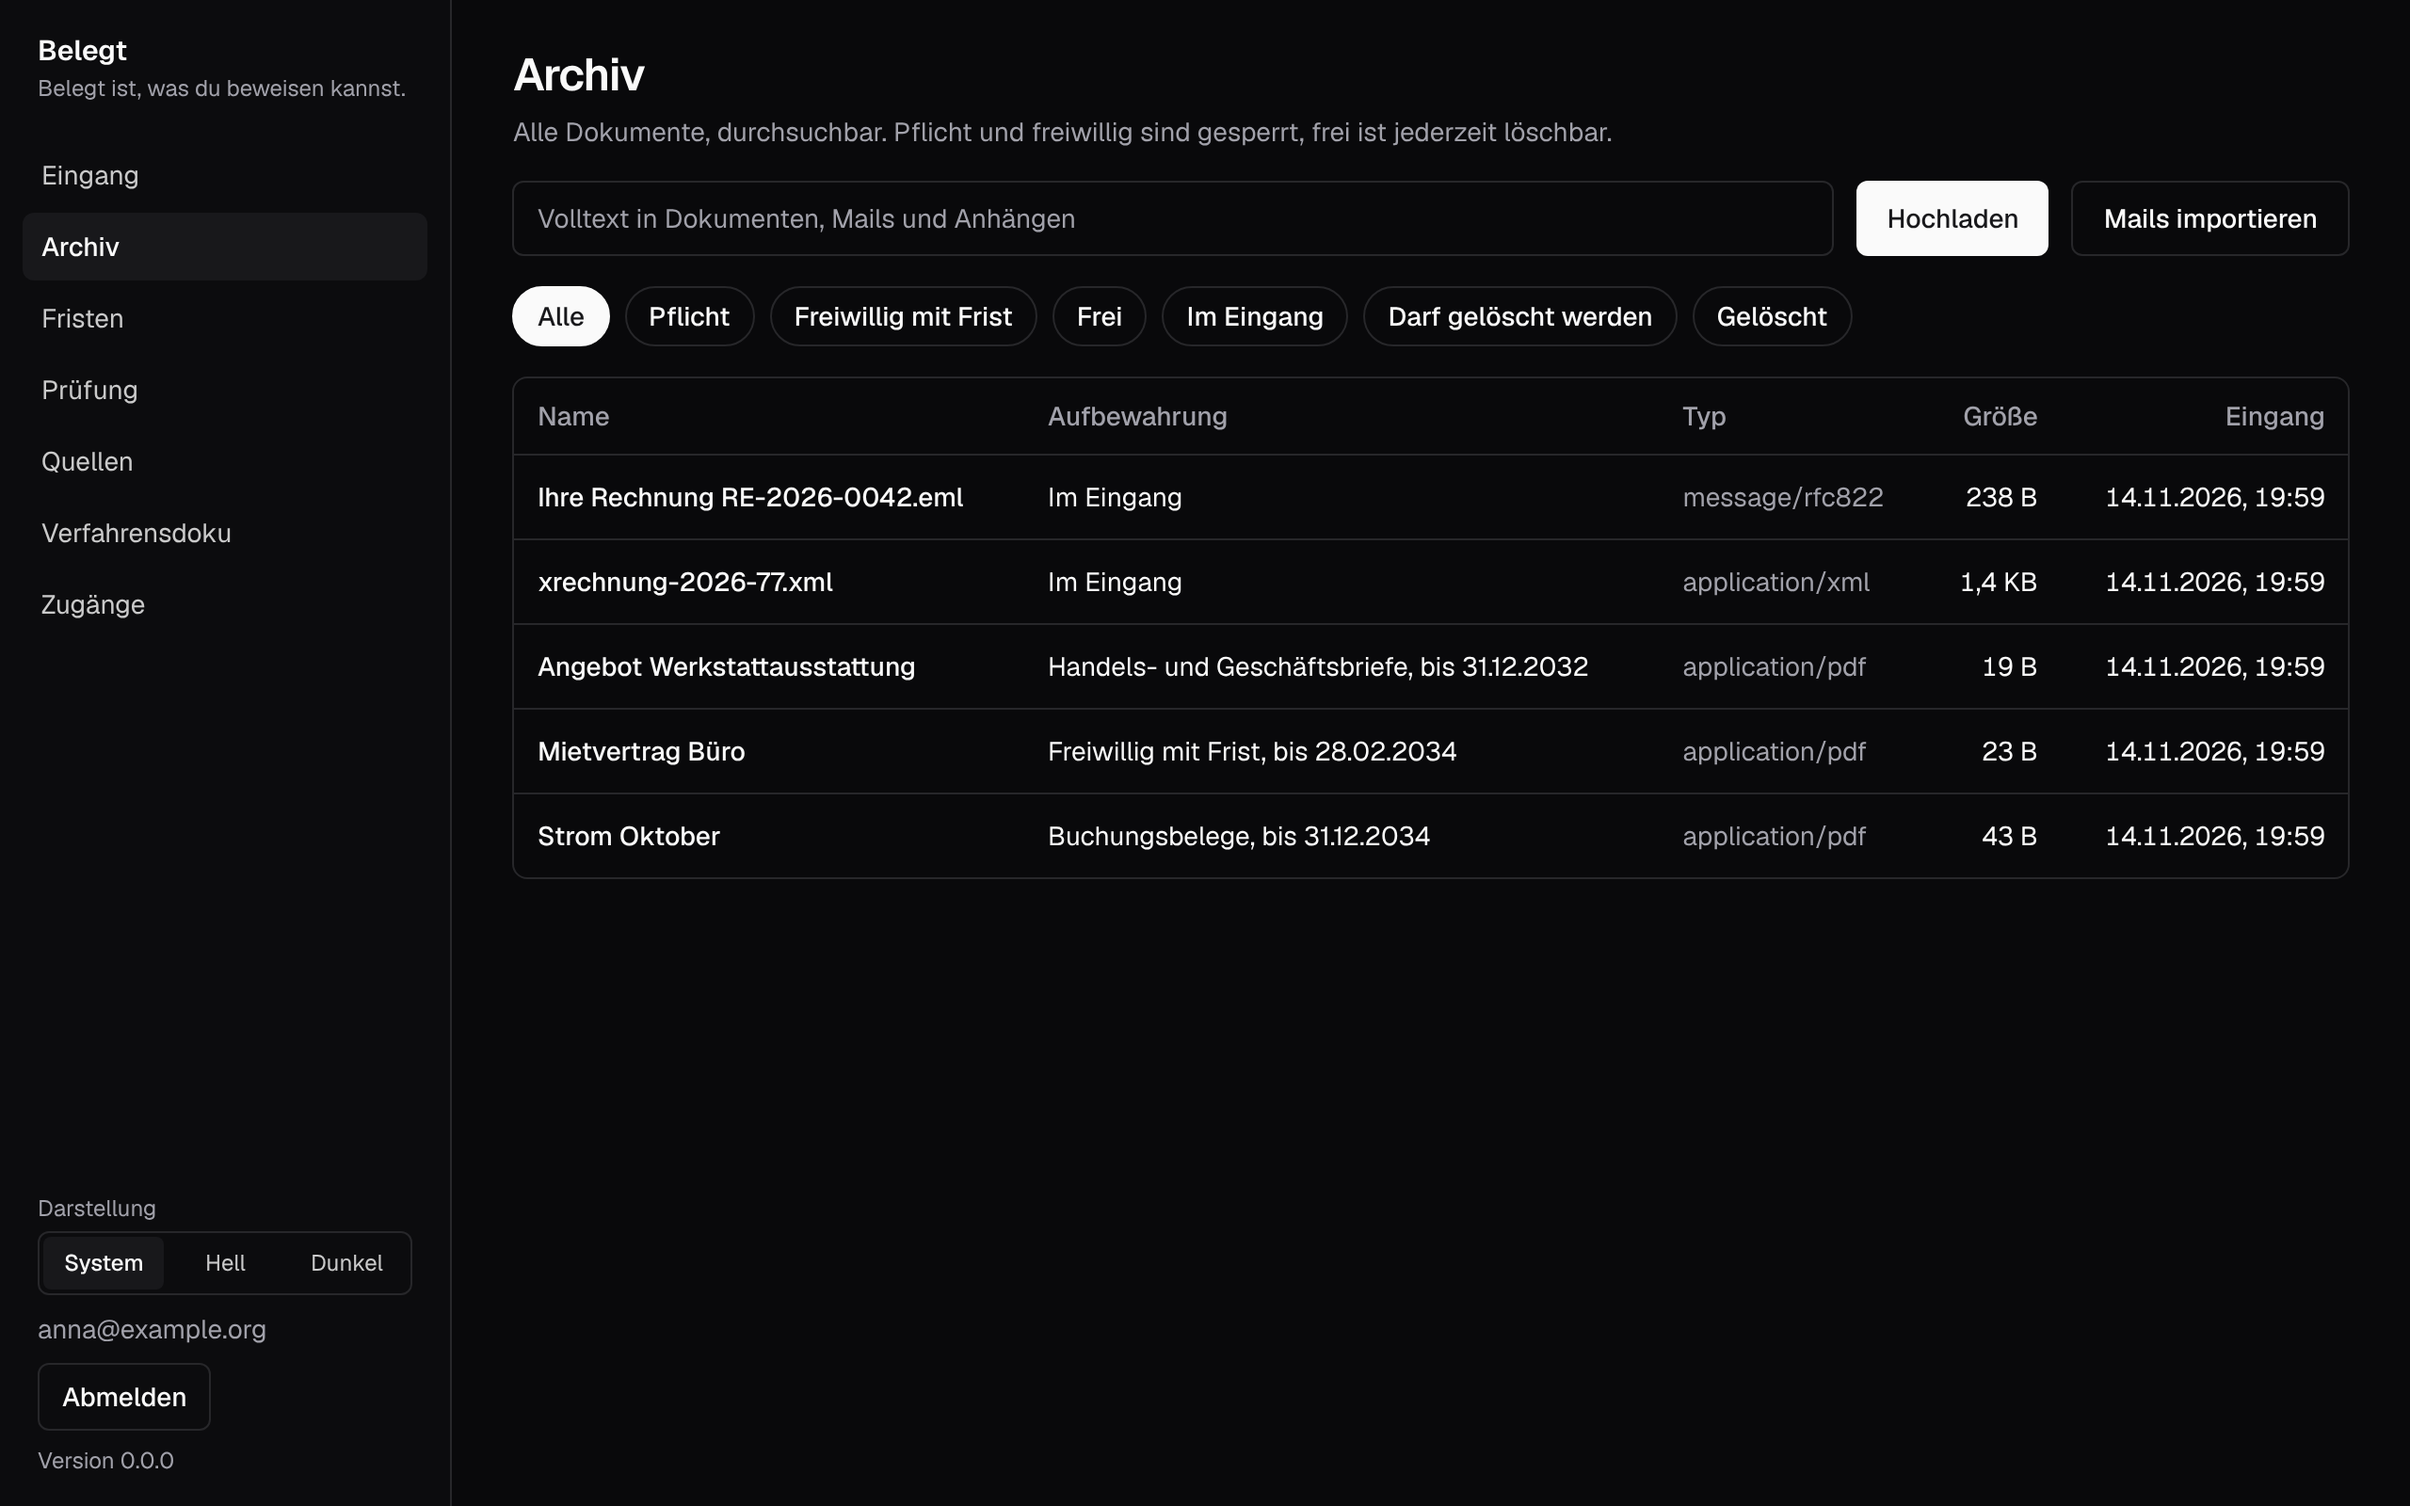
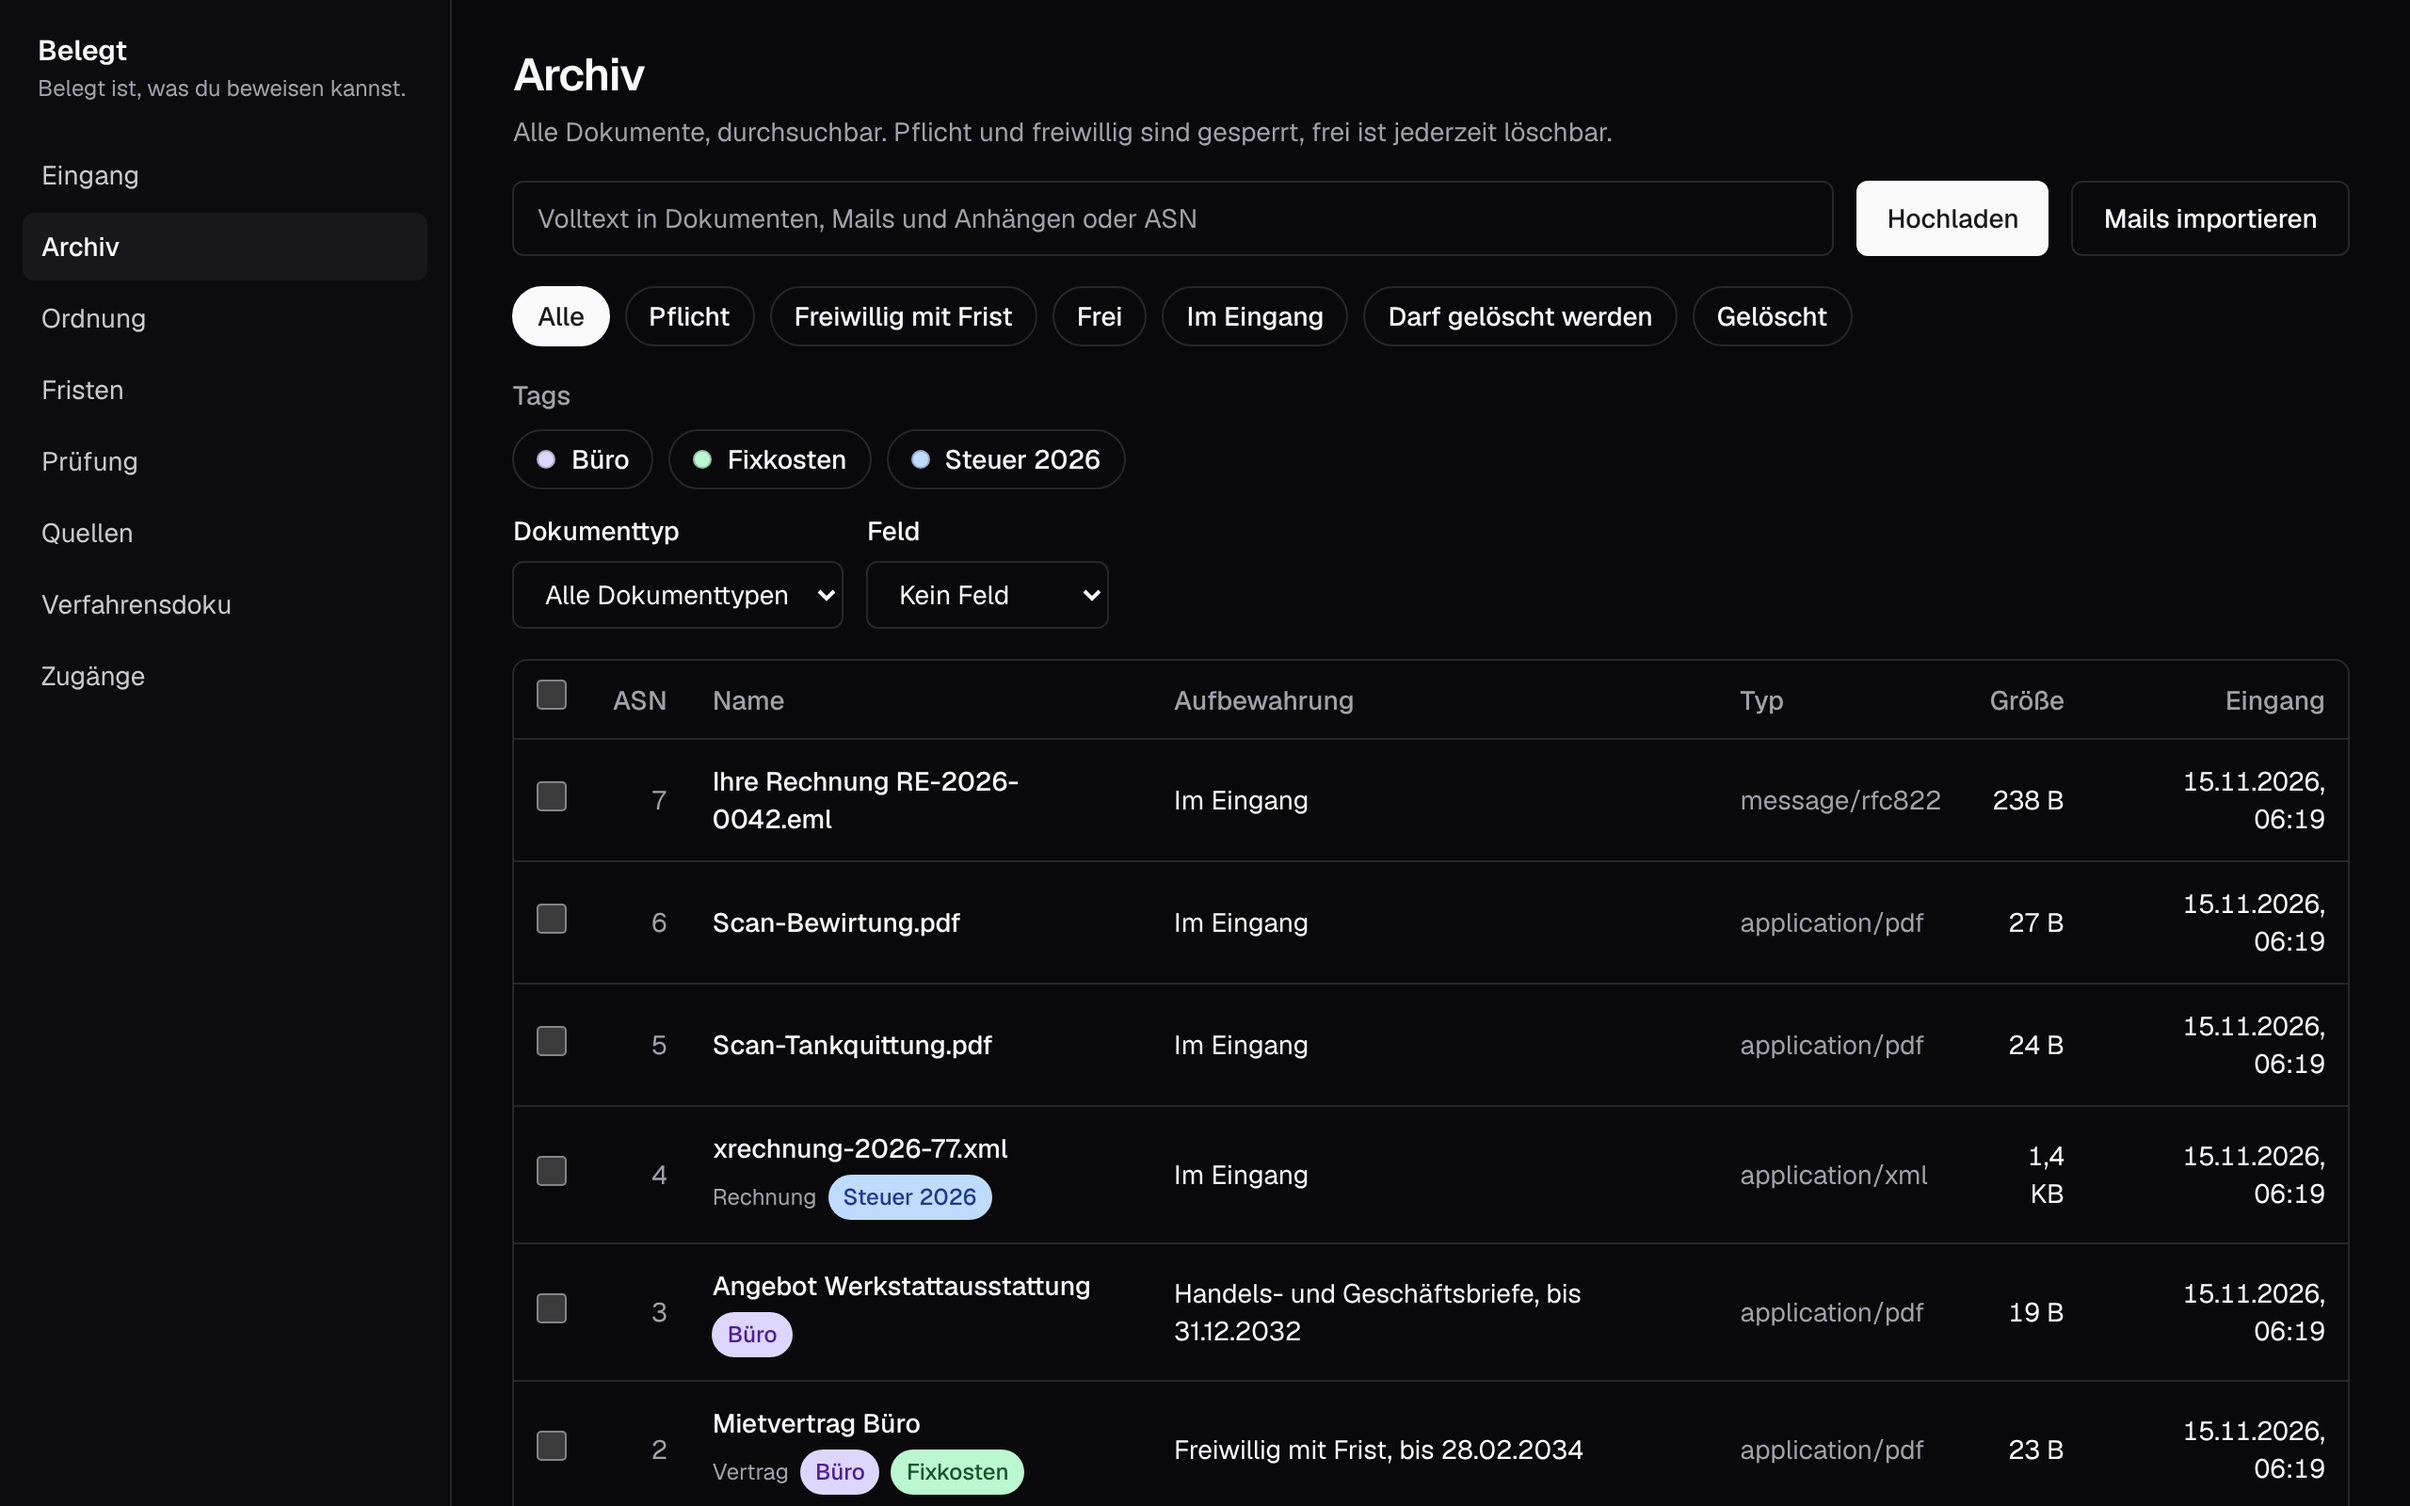
Screenshots der Doku neu, mit Tags, ASN und Mehrfachauswahl
Die Beispieldaten in e2e/screenshots.ts bekommen Tags, Dokumenttypen und ein
Betragsfeld; das Archiv zeigt Archivnummer, Tags und Filter, der Eingang
„Foto aufnehmen“, zwei gewählte Scans und die Sammelbearbeitung. Alt-Texte im
README nachgezogen.

Claude-Session: https://claude.ai/code/session_01Y3rdfYz2SKH9xfBUAJSLKS

diff --git a/e2e/screenshots.ts b/e2e/screenshots.ts
@@ -2,8 +2,8 @@ import { readFileSync } from "node:fs";
 import { expect, type Page, test } from "@playwright/test";
 
 /*
- * Bilder für README und Doku: erfundene Dokumente, Mails und Einordnungen, dann je Seite hell und dunkel nach
- * docs/assets/. Läuft nur mit DOKU_SCREENSHOTS=1 (bun run screenshots), nicht in der CI.
+ * Bilder für README und Doku: erfundene Dokumente, Mails, Einordnungen, Tags, Dokumenttypen und Felder, dann je Seite
+ * hell und dunkel nach docs/assets/. Läuft nur mit DOKU_SCREENSHOTS=1 (bun run screenshots), nicht in der CI.
  */
 
 const UBL = readFileSync(new URL("../server/inhalt/beispiele/ubl.xml", import.meta.url), "utf8");
@@ -40,7 +40,28 @@ async function vorbereiten(page: Page) {
     titel: "Angebot Werkstattausstattung",
     korrespondent: "Werkstatt Beispiel GmbH",
   });
-  await hoch("xrechnung-2026-77.xml", Buffer.from(UBL), "application/xml");
+  const xrechnung = await hoch("xrechnung-2026-77.xml", Buffer.from(UBL), "application/xml");
+  await hoch("Scan-Tankquittung.pdf", pdf("Tankquittung"));
+  await hoch("Scan-Bewirtung.pdf", pdf("Bewirtungsbeleg"));
+
+  // Ordnung: Tags, Dokumenttypen und ein Betragsfeld, damit Liste und Dokument sie zeigen
+  const anlegen = async (pfad: string, body: object) =>
+    ((await (await r.post(pfad, json(body))).json()) as { id: string }).id;
+  const steuer = await anlegen("/api/tags", { name: "Steuer 2026", farbe: "blau" });
+  const fix = await anlegen("/api/tags", { name: "Fixkosten", farbe: "gruen" });
+  const buero = await anlegen("/api/tags", { name: "Büro", farbe: "violett" });
+  const rechnung = await anlegen("/api/dokumenttypen", { name: "Rechnung", vorgabeArt: "beleg" });
+  const vertrag = await anlegen("/api/dokumenttypen", { name: "Vertrag", vorgabeArt: null });
+  const betrag = await anlegen("/api/felder", { name: "Betrag", typ: "betrag" });
+  const ordnen = (id: string, a: object) => r.post(`/api/dokumente/${id}/ordnung`, json(a));
+  await ordnen(strom.id, {
+    tagsHinzu: [steuer, fix],
+    dokumenttyp: rechnung,
+    felder: [{ feldId: betrag, wert: "84,20" }],
+  });
+  await ordnen(miete.id, { tagsHinzu: [fix, buero], dokumenttyp: vertrag });
+  await ordnen(brief.id, { tagsHinzu: [buero] });
+  await ordnen(xrechnung.id, { tagsHinzu: [steuer], dokumenttyp: rechnung });
   const eml = [
     "From: Buchhaltung <rechnung@lieferant.example>",
     "To: anna@example.org",
@@ -89,8 +110,12 @@ test("Bilder für README und Doku", async ({ page }) => {
   await expect(page.getByRole("link", { name: "Strom Oktober" })).toBeVisible();
   await bild(page, "archiv");
 
+  // Eingang mit Mehrfachauswahl: zwei Scans gewählt, darüber die Sammelbearbeitung; daneben „Foto aufnehmen“
   await page.goto("/");
   await expect(page.getByRole("heading", { level: 1, name: "Eingang" })).toBeVisible();
+  await expect(page.getByRole("button", { name: "Foto aufnehmen" })).toBeVisible();
+  for (const name of ["Scan-Tankquittung.pdf", "Scan-Bewirtung.pdf"])
+    await page.getByRole("checkbox", { name: `${name} auswählen` }).check();
   await bild(page, "eingang");
 
   const x = page.getByRole("link", { name: "xrechnung-2026-77.xml" });

diff --git a/README.md b/README.md
@@ -4,7 +4,7 @@
 
 <picture>
   <source media="(prefers-color-scheme: dark)" srcset="docs/assets/screenshot-archiv-dunkel.png">
-  <img src="docs/assets/screenshot-archiv.png" alt="Archiv in Belegt: Strom Oktober als Buchungsbeleg bis 31.12.2034, Mietvertrag freiwillig bis 28.02.2034, Angebot als Geschäftsbrief bis 31.12.2032, eine Mail und eine XRechnung im Eingang" width="900">
+  <img src="docs/assets/screenshot-archiv.png" alt="Archiv in Belegt mit Archivnummer, Tags und Dokumenttyp: Mietvertrag freiwillig bis 28.02.2034, Angebot als Geschäftsbrief bis 31.12.2032, eine Mail, zwei Scans und eine XRechnung im Eingang; darüber Filter nach Tags, Dokumenttyp und Feld" width="900">
 </picture>
 
 **Belegt ist, was du beweisen kannst.**<br>
@@ -87,7 +87,7 @@ Dokumentenmanagement reicht dafür selten: Dateien lassen sich ändern, und niem
   </tr>
   <tr>
     <td width="50%"><picture><source media="(prefers-color-scheme: dark)" srcset="docs/assets/screenshot-fristen-dunkel.png"><img src="docs/assets/screenshot-fristen.png" alt="Fristen nach § 147 AO mit Jahren und Grundlage, Sperren und Übersicht"></picture><br><sub><b>Fristen</b>: nach § 147 AO, mit Sperren</sub></td>
-    <td width="50%"><picture><source media="(prefers-color-scheme: dark)" srcset="docs/assets/screenshot-eingang-dunkel.png"><img src="docs/assets/screenshot-eingang.png" alt="Eingang mit einer Mail und einer XRechnung, die noch eingeordnet werden"></picture><br><sub><b>Eingang</b>: was noch eingeordnet werden muss</sub></td>
+    <td width="50%"><picture><source media="(prefers-color-scheme: dark)" srcset="docs/assets/screenshot-eingang-dunkel.png"><img src="docs/assets/screenshot-eingang.png" alt="Eingang mit Foto aufnehmen und Mehrfachauswahl: zwei Scans gewählt, darüber die Sammelbearbeitung"></picture><br><sub><b>Eingang</b>: was noch eingeordnet werden muss</sub></td>
   </tr>
 </table>
 
